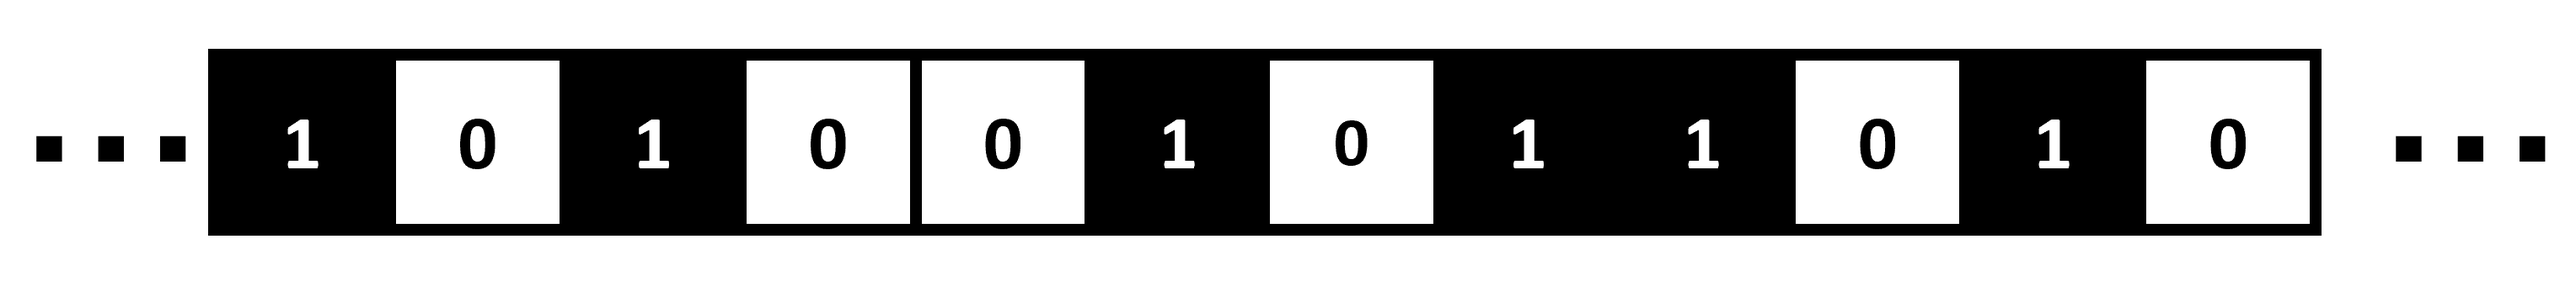
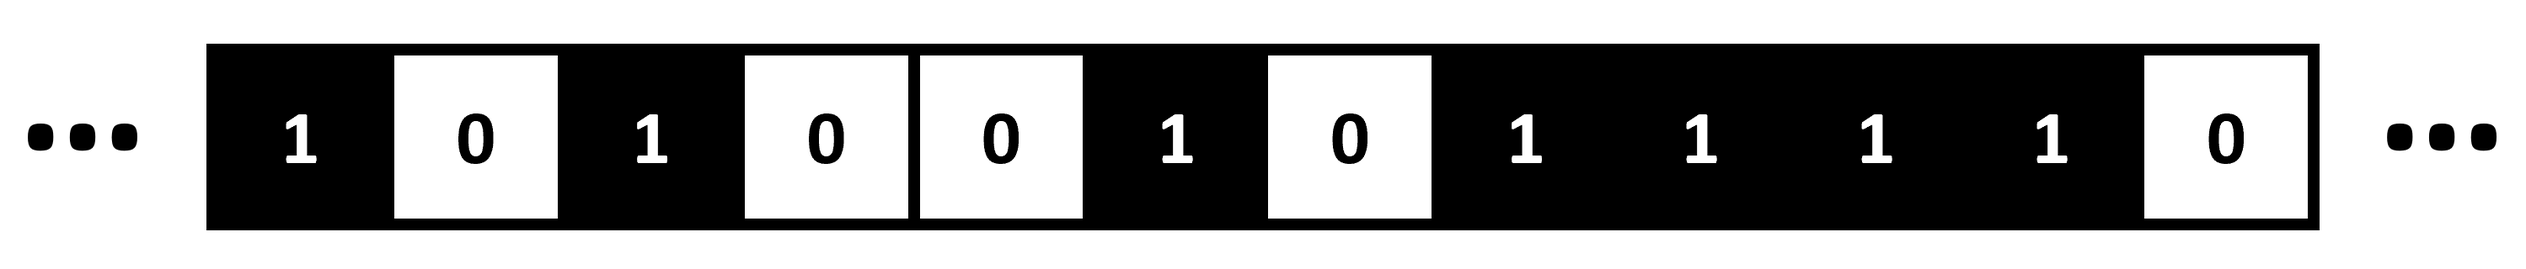
-Progress on TP1.

Changed region(s): [[0.062, 0.1562, 0.9927, 0.875], [0.0, 0.4062, 0.1241, 0.625]]

diff --git a/docs/TP1.md b/docs/TP1.md
@@ -43,7 +43,7 @@ On parlera aussi de "règle n°110".
 
 Voici l'évolution de l'automate cellulaire n°110 pour une itération :
 
-![Exemple pour la règle 110](img/.png)
+![Exemple pour la règle 110](img/TP1_iteration.gif)
 
 Il est bien entendu impossible de simuler l'évoluation d'une matrice 1D infinie avec un ordinateur.
 On définira donc une matrice 1D de dimensions finies, et on pourra choisir de gèrer les cas sur les bords de différentes façons :
